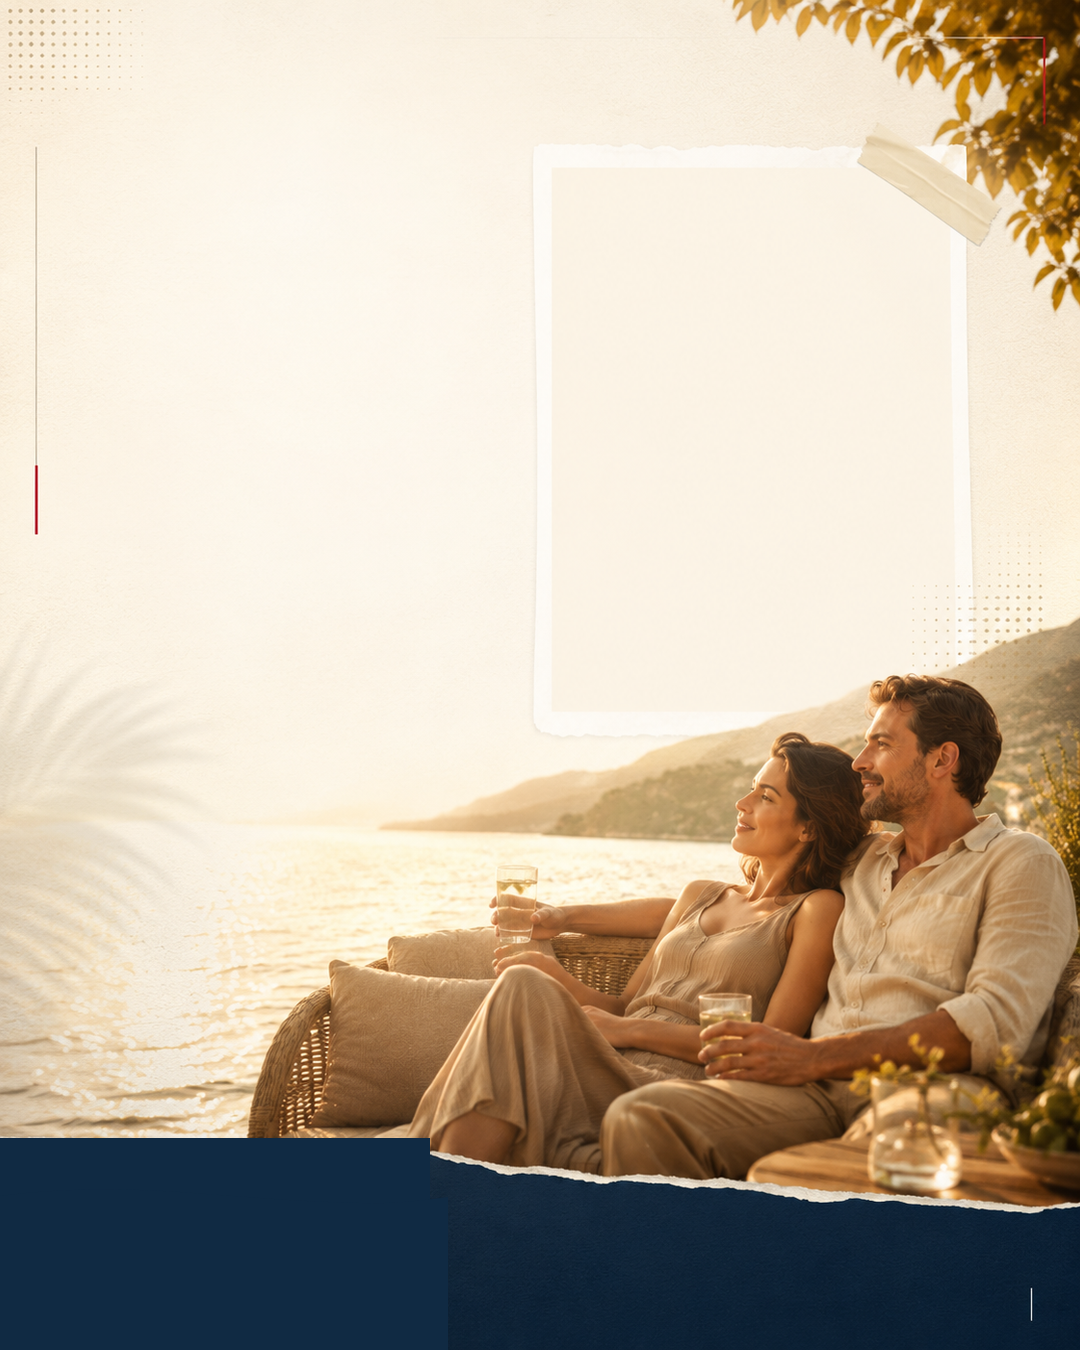
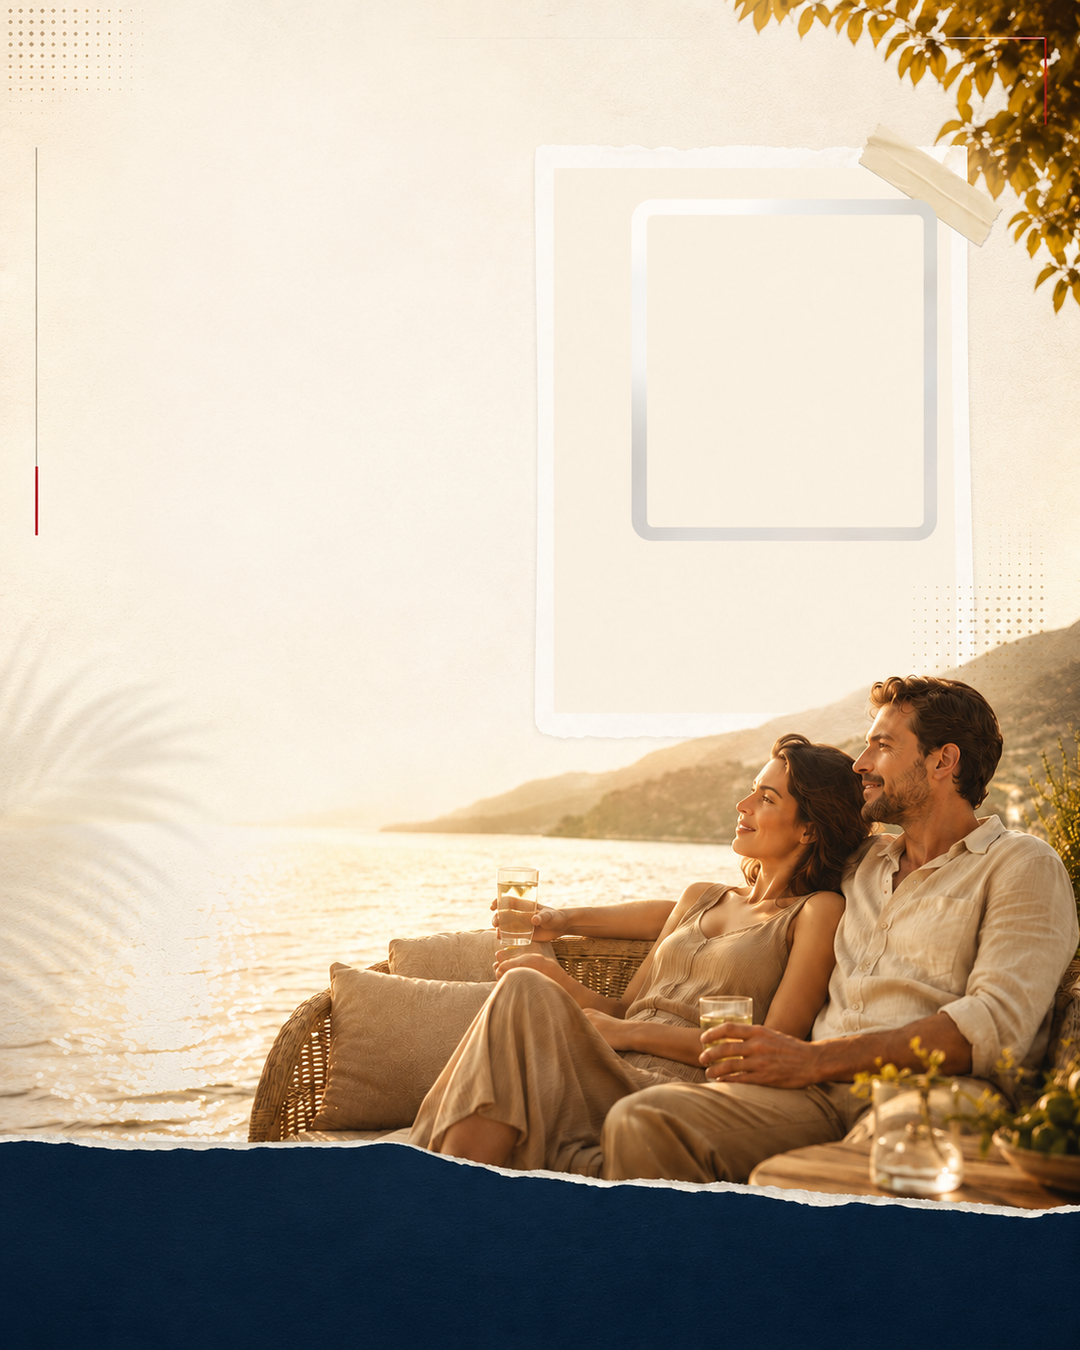
Finalize SocialPilot summer family master template

diff --git a/app/api/admin/social/[id]/generate-image/route.ts b/app/api/admin/social/[id]/generate-image/route.ts
@@ -178,9 +178,9 @@ const TEMPLATES: Record<string, TemplateConfig> = {
     },
     imageBox: {
       x: 628,
-      y: 198,
-      width: 308,
-      height: 334,
+      y: 190,
+      width: 322,
+      height: 352,
     },
     logoBox: {
       x: 86,
@@ -1437,6 +1437,7 @@ export async function POST(
     );
   }
 }
+
 
 
 
